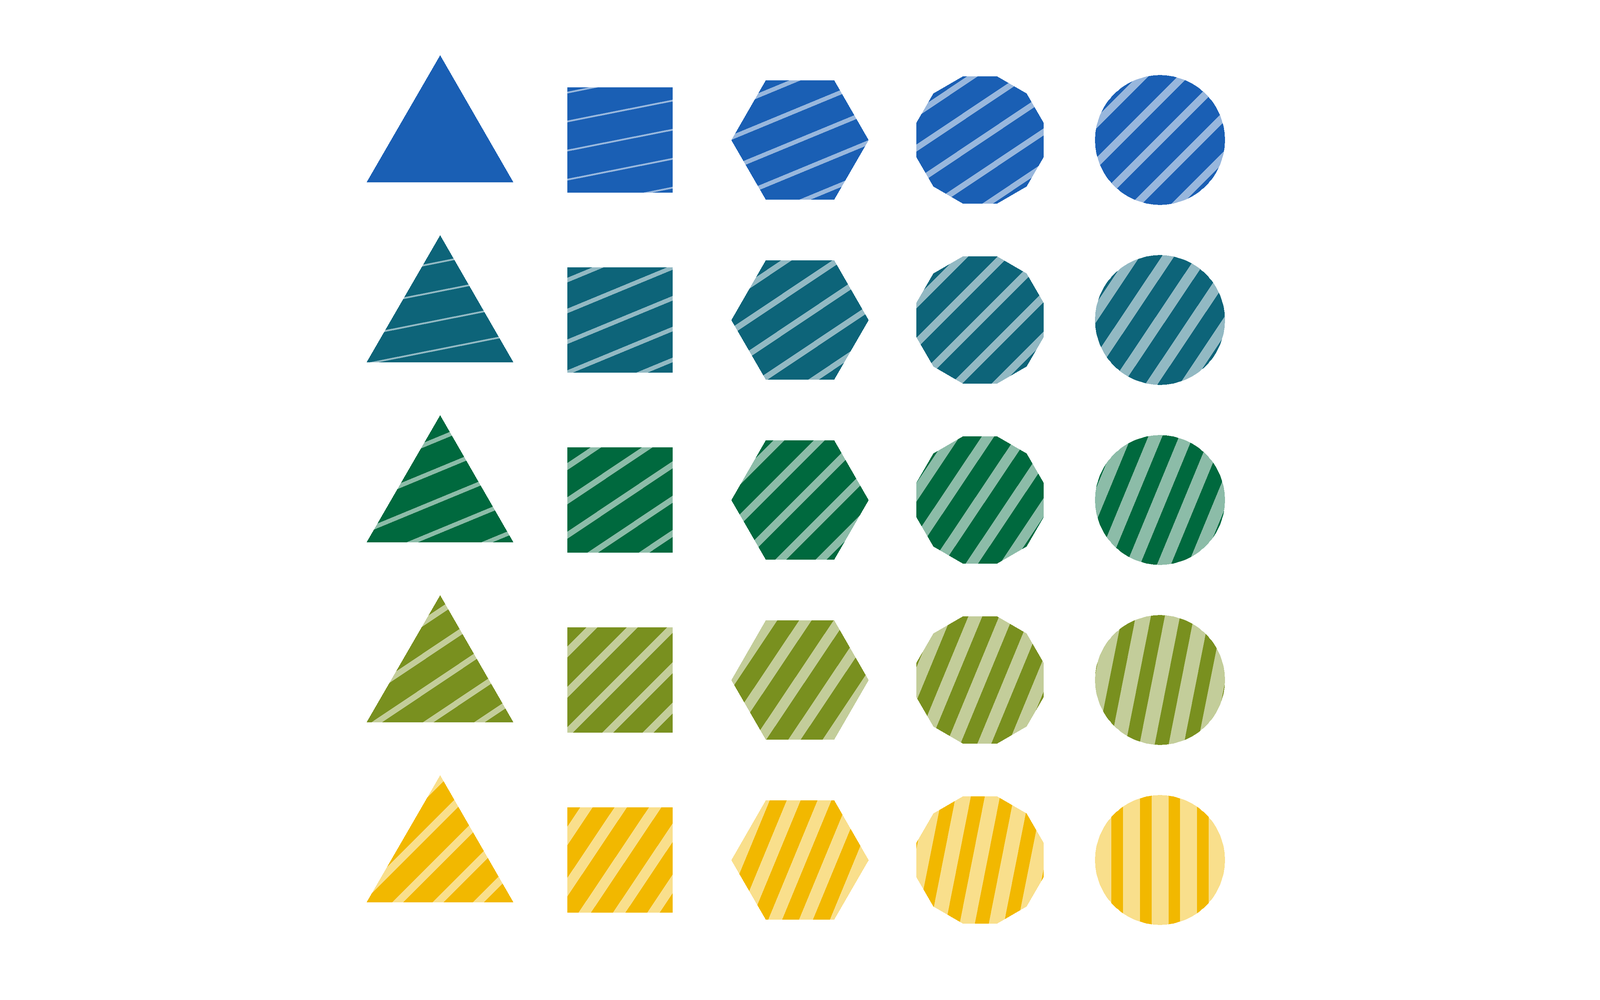
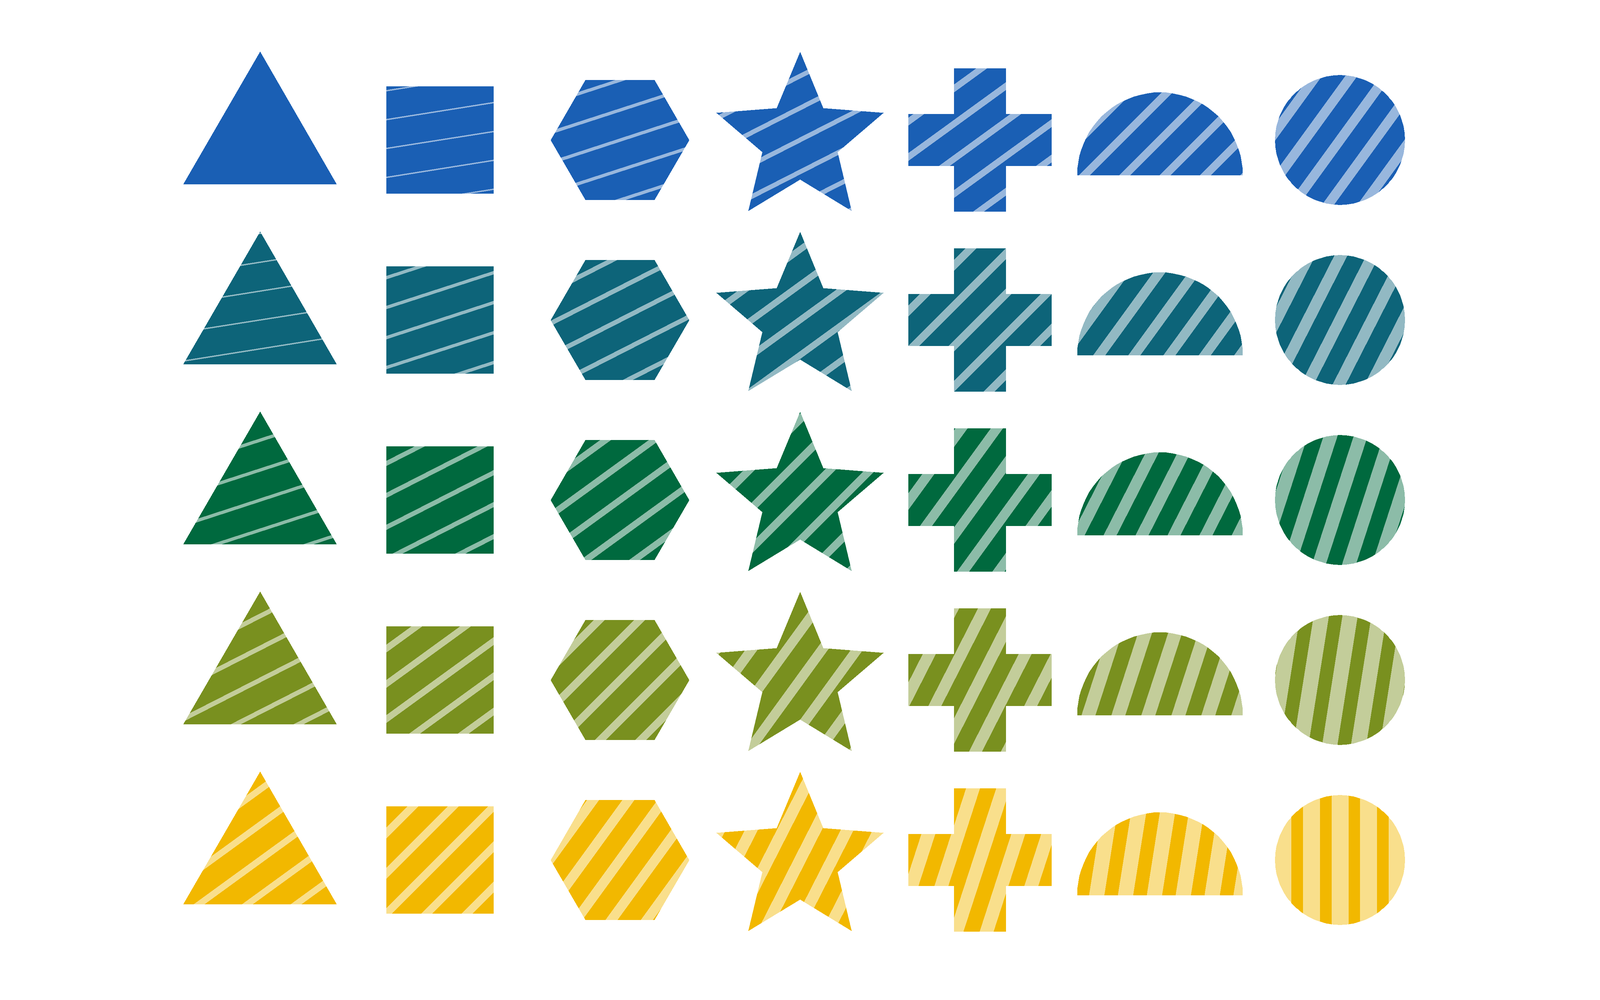
Research page: complex-environments figure becomes a 7x5 grid with new shapes (star, plus, half-disc)

diff --git a/scripts/make_complex_environments_image.py b/scripts/make_complex_environments_image.py
@@ -1,9 +1,10 @@
 """Generate the Research page picture for "Learning in complex environments".
 
-A 5 x 5 grid of objects built from three features, each changing in steps across the picture: colour changes down the
-rows (blue, green, yellow), shape changes along the columns (triangle, square, hexagon, 12-sided, circle), and the stripe
-pattern grows along the diagonal, from solid at the top left to bold stripes at the bottom right, turning from horizontal to vertical on the way. Every combination of
-colour and shape is shown, so the options multiply quickly. Deterministic; pure Pillow.
+A grid of objects built from three features, each changing in steps across the picture: colour changes down the rows
+(blue, green, yellow), shape changes along the columns (triangle, square, hexagon, star, plus, half-disc, circle), and
+the stripe pattern grows along the diagonal, turning from horizontal to vertical and getting bolder, from solid at the
+top left to boldest stripes at the bottom right. Every combination of colour and shape is shown, so the options multiply
+quickly. Deterministic; pure Pillow.
 
     .venv/bin/python scripts/make_complex_environments_image.py [output.png]     # default: content/images/complex-environments.png
 """
@@ -15,8 +16,9 @@ from pathlib import Path
 from PIL import Image, ImageDraw
 
 W, H, SCALE = 1600, 1000, 3
-N = 5  # the grid is N x N
-SIDES = [3, 4, 6, 12, 0]  # 0 means a circle
+ROWS = 5  # colours
+SHAPES = ["triangle", "square", "hexagon", "star", "plus", "half-disc", "circle"]  # one column each
+COLS = len(SHAPES)
 STOPS = [(0.0, (26, 95, 180)), (0.5, (0, 105, 62)), (1.0, (242, 184, 0))]  # blue, Dartmouth green, yellow
 
 
@@ -28,30 +30,51 @@ def colour(t):
     return STOPS[-1][1]
 
 
-def outline(cx, cy, radius, sides):
-    """A regular polygon with a flat bottom (a triangle points up), or a circle. Corners of few-sided shapes are pulled out a little so all shapes look about equally big."""
-    if sides == 0:
-        return [(cx + radius * math.cos(a / 90 * math.pi), cy + radius * math.sin(a / 90 * math.pi)) for a in range(180)]
-    equal_area = math.sqrt(2 * math.pi / (sides * math.sin(2 * math.pi / sides)))
-    r = radius * equal_area ** 0.6
-    turn = math.pi / sides if sides % 2 == 0 else 0  # even-sided shapes are turned half a step so they sit flat
-    return [(cx + r * math.sin(2 * math.pi * i / sides + turn), cy - r * math.cos(2 * math.pi * i / sides + turn)) for i in range(sides)]
+def regular(sides, turn=0.0):
+    return [(math.sin(2 * math.pi * i / sides + turn), -math.cos(2 * math.pi * i / sides + turn)) for i in range(sides)]
+
+
+def shape_points(name):
+    """A shape as points around (0, 0), roughly 1 unit across, with its visual centre at the origin."""
+    if name == "triangle":
+        return regular(3)
+    if name == "square":
+        return regular(4, math.pi / 4)
+    if name == "hexagon":
+        return regular(6, math.pi / 6)
+    if name == "star":
+        return [((1 if i % 2 == 0 else 0.45) * math.sin(math.pi * i / 5), -(1 if i % 2 == 0 else 0.45) * math.cos(math.pi * i / 5)) for i in range(10)]
+    if name == "plus":
+        a, b = 1.0, 0.36  # arm length and half-width
+        return [(b, -a), (b, -b), (a, -b), (a, b), (b, b), (b, a), (-b, a), (-b, b), (-a, b), (-a, -b), (-b, -b), (-b, -a)]
+    if name == "half-disc":
+        top = [(math.cos(a / 40 * math.pi), -math.sin(a / 40 * math.pi)) for a in range(41)]
+        return [(x, y + 0.424) for x, y in top]  # the flat side sits below the centre, so the shape looks centred
+    return [(math.cos(a / 90 * math.pi), math.sin(a / 90 * math.pi)) for a in range(180)]  # circle
+
+
+def outline(cx, cy, radius, name):
+    """The shape's corners in the picture, scaled so every shape covers about the same area (but pulled only part of the way, to keep them from crowding)."""
+    pts = shape_points(name)
+    area = abs(sum(x0 * y1 - x1 * y0 for (x0, y0), (x1, y1) in zip(pts, pts[1:] + pts[:1]))) / 2
+    s = radius * (math.pi / area) ** 0.35
+    return [(cx + x * s, cy + y * s) for x, y in pts]
 
 
 def draw(path):
     big = Image.new("RGB", (W * SCALE, H * SCALE), "white")
     cell = H * 0.18 * SCALE
-    x0, y0 = (W * SCALE - cell * N) / 2, (H * SCALE - cell * N) / 2
+    x0, y0 = (W * SCALE - cell * COLS) / 2, (H * SCALE - cell * ROWS) / 2
     radius = cell * 0.36
-    for row in range(N):
-        for col in range(N):
+    for row in range(ROWS):
+        for col in range(COLS):
             cx, cy = x0 + (col + 0.5) * cell, y0 + (row + 0.5) * cell
             mask = Image.new("L", big.size, 0)
-            ImageDraw.Draw(mask).polygon(outline(cx, cy, radius, SIDES[col]), fill=255)
-            fill = colour(row / (N - 1))
+            ImageDraw.Draw(mask).polygon(outline(cx, cy, radius, SHAPES[col]), fill=255)
+            fill = colour(row / (ROWS - 1))
             pale = tuple(round(c + (255 - c) * 0.55) for c in fill)  # stripes are a pale tint of the colour, so every outline stays whole
             layer = Image.new("RGB", big.size, fill)
-            stripe = (row + col) / (2 * (N - 1))  # 0 = solid, 1 = boldest stripes
+            stripe = (row + col) / (ROWS + COLS - 2)  # 0 = solid, 1 = boldest stripes
             if stripe:
                 sd, thick = ImageDraw.Draw(layer), radius * 0.26 * stripe
                 angle = math.pi / 2 * stripe  # the stripes turn from horizontal (just after the solid corner) through diagonal to vertical

diff --git a/content/research/complex-environments.md b/content/research/complex-environments.md
@@ -1,6 +1,6 @@
 ---
 title: Learning in complex environments
 order: 2
-image_alt: A five-by-five grid of objects. Color changes from blue to green to yellow down the rows; shape changes across the columns from triangle to square, hexagon, 12-sided shape and circle; and stripes grow bolder and turn from horizontal to vertical along the diagonal. Every combination of features appears, so the number of distinct options is large.
+image_alt: A grid of objects, seven columns by five rows. Color changes from blue to green to yellow down the rows; shape changes across the columns from triangle to square, hexagon, five-point star, plus sign, half-disc and circle; and stripes grow bolder and turn from horizontal to vertical along the diagonal, from a solid triangle at top left to a boldly striped circle at bottom right. Every combination of features appears, so the number of distinct options is large.
 ---
 Objects and actions in the real world have many features, and only some features predict reward, making learning about each feature separately an inefficient process. How learners select informative features, when they shift to learning about whole objects, and how attention guides this process are all active areas of research. We use behavioral experiments to study how human participants choose among stimuli differing in shape, color, pattern or naturalistic content, with periodic reward-probability estimates. We fit feature-based, object-based and mixed reinforcement-learning models to choices, complementing behavioral analysis with gaze measurements and trained recurrent neural networks.
